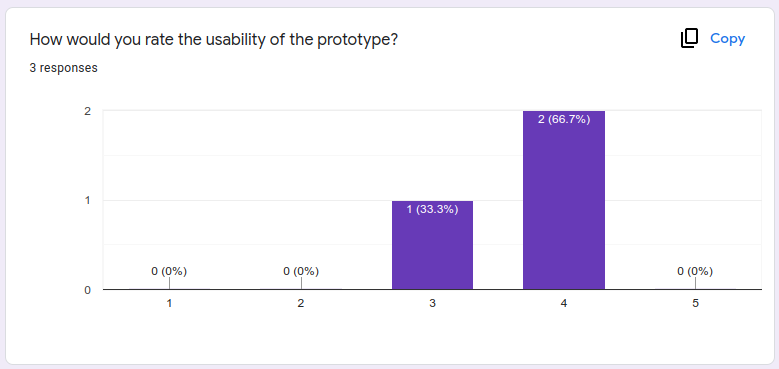
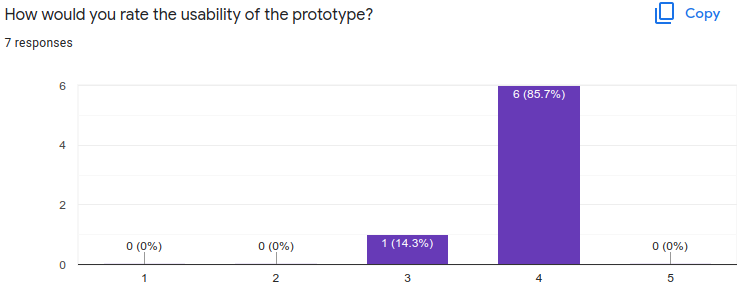
Proof read chapter 6

diff --git a/documentation/thesis/chapters/evaluation/results.tex b/documentation/thesis/chapters/evaluation/results.tex
@@ -1,3 +1,4 @@
+\newpage
 \section{Evaluation Results}
 
 \subsection{Qualitative Result Analysis}
@@ -16,7 +17,7 @@ The following table shows the overall impression of the interviewees after showi
     EV6 & “This was a creative approach that I don’t know I have seen anywhere else. The architecture is well designed and has appropriate divisions. Separating the metrics aggregation from the analysis was a good choice as these components will scale differently.” \\ \hline
     EV7 & "Keep continuing working on the project. This is something really cool and this could help a lot of startups to solve their problems because the key point in this is you solve the service layer of related issues." \\ \hline
     EV8 & “This looks really good, for specifically undergrad project done in a limited time” \\ \hline
-    EV9 &  \\ \hline
+    % EV9 &  \\ \hline
     \caption{Evaluator's overall impression about the system (self-composed)}
 \end{longtable}
 
@@ -24,61 +25,77 @@ The following table shows the overall impression of the interviewees after showi
 
 \subsection{Quantitative Evaluation}
 
-\begin{longtable}{|l|l|l|l|l|l|l|l|l|l|} 
+\begin{longtable}{|l|l|l|l|l|l|l|l|} 
   \hline
-  \begin{tabular}[c]{@{}l@{}}\\\textbf{Criteria}\end{tabular} & \textbf{EV1} & \textbf{EV2} & \textbf{EV3} & \textbf{EV4} & \textbf{EV5} & \textbf{EV6} & \textbf{EV7} & \textbf{EV8} & \textbf{EV9} \\* 
+  \begin{tabular}[c]{@{}l@{}}\\\textbf{Criteria}\end{tabular} & \textbf{EV1} & \textbf{EV2} & \textbf{EV3} & \textbf{EV4} & \textbf{EV5} & \textbf{EV6} & \textbf{EV7} \\* 
   \hline
-  \multirow{4}{*}{\begin{tabular}[c]{@{}l@{}}The overall \\impression about \\the project and \\research gap\end{tabular}} & \multicolumn{9}{l|}{\begin{tabular}[c]{@{}l@{}}Proposed solution provide a good answer to the identified problem? \\(1 - Strongly Disagree, 5 - Strongly Agree)\end{tabular}} \\* 
-  \cline{2-10}
-   & 4 & 5 & 5 & 5 & 4 & 5 &  & 5 &  \\* 
-  \cline{2-10}
-   & \multicolumn{9}{l|}{The novelty of the project (1 - No novelty, 5 -Very high)} \\* 
-  \cline{2-10}
-   & 5 & 4 & 4 & 5 & 5 & 5 &  & 5 &  \\* 
+
+
+  \multirow{4}{*}{\begin{tabular}[c]{@{}l@{}}The overall \\impression about \\the project and \\research gap\end{tabular}} & \multicolumn{7}{l|}{\begin{tabular}[c]{@{}l@{}} \textbf{Does the proposed solution provide an excellent answer to the problem?}\\(1 - Strongly Disagree, 5 - Strongly Agree)\end{tabular}} \\* 
+  \cline{2-8}
+   & 4 & 5 & 5 & 5 & 4 & 5 & 5 \\* 
+  \cline{2-8}
+   & \multicolumn{7}{l|}{\textbf{The novelty of the project} (1 - No novelty, 5 -Very high)} \\* 
+  \cline{2-8}
+   & 5 & 4 & 4 & 5 & 5 & 5 & 5 \\* 
   \hline
-  \multirow{4}{*}{\begin{tabular}[c]{@{}l@{}}Research scope \\and depth\end{tabular}} & \multicolumn{9}{l|}{\begin{tabular}[c]{@{}l@{}}Rate the complexity of the project \\(1 - Not up to an undergraduate level, 5 - Could satisfy for a masters level)\end{tabular}} \\* 
-  \cline{2-10}
-   & 4 & 3 & 5 & 5 & 5 & 5 &  & 5 &  \\* 
-  \cline{2-10}
-   & \multicolumn{9}{l|}{\begin{tabular}[c]{@{}l@{}}Rate the scope of the project \\(1 - Easy to achieve, 5 - Requires lot of hard work)\end{tabular}} \\* 
-  \cline{2-10}
-   & 5 & 4 & 5 & 5 & 5 & 5 &  & 5 &  \\* 
+
+
+  \multirow{4}{*}{\begin{tabular}[c]{@{}l@{}}Research scope \\and depth\end{tabular}} & \multicolumn{7}{l|}{\begin{tabular}[c]{@{}l@{}}\textbf{Rate the complexity of the project}\\(1 - Not up to an undergraduate level, 5 - Could satisfy for a masters level)\end{tabular}} \\* 
+  \cline{2-8}
+   & 4 & 3 & 5 & 5 & 5 & 5 & 5 \\* 
+  \cline{2-8}
+   & \multicolumn{7}{l|}{\begin{tabular}[c]{@{}l@{}}\textbf{Rate the scope of the project}\\(1 - Easy to achieve, 5 - Requires a lot of hard work)\end{tabular}} \\* 
+  \cline{2-8}
+   & 5 & 4 & 5 & 5 & 5 & 5 & 5 \\* 
   \hline
-  \multirow{4}{*}{\begin{tabular}[c]{@{}l@{}}Design and \\architecture\end{tabular}} & \multicolumn{9}{l|}{\begin{tabular}[c]{@{}l@{}}The author showed a deep understanding about the subject matter \\(1 - Strongly Disagree, 5 - Strongly Agree)\end{tabular}} \\* 
-  \cline{2-10}
-   & 5 & 5 & 5 & 5 & 5 & 5 &  & 5 &  \\* 
-  \cline{2-10}
-   & \multicolumn{9}{l|}{\begin{tabular}[c]{@{}l@{}}The solution was well architectured to fit into microservices ecosystems \\(1 - Strongly Disagree, 5 - Strongly Agree)\end{tabular}} \\* 
-  \cline{2-10}
-   & 5 & 5 & 5 & 5 & 4 & 4 &  & 5 &  \\* 
+
+
+  \multirow{4}{*}{\begin{tabular}[c]{@{}l@{}}Design and \\architecture\end{tabular}} & \multicolumn{7}{l|}{\begin{tabular}[c]{@{}l@{}}\textbf{The author showed a deep understanding of the subject matter}\\(1 - Strongly Disagree, 5 - Strongly Agree)\end{tabular}} \\* 
+  \cline{2-8}
+   & 5 & 5 & 5 & 5 & 5 & 5 & 5 \\* 
+  \cline{2-8}
+   & \multicolumn{7}{l|}{\begin{tabular}[c]{@{}l@{}}\textbf{The solution was well architectured to fit into microservices ecosystems}\\(1 - Strongly Disagree, 5 - Strongly Agree)\end{tabular}} \\* 
+  \cline{2-8}
+   & 5 & 5 & 5 & 5 & 4 & 4 & 5 \\* 
   \hline
-  \multirow{4}{*}{\begin{tabular}[c]{@{}l@{}}Prototype \\implementation\end{tabular}} & \multicolumn{9}{l|}{\begin{tabular}[c]{@{}l@{}}The project was well put together by following the best practices of both \\Dev and Ops (1 - Strongly Disagree, 5 - Strongly Agree)\end{tabular}} \\* 
-  \cline{2-10}
-   & 5 & 5 & 5 & 5 & 4 & 5 &  & 5 &  \\* 
-  \cline{2-10}
-   & \multicolumn{9}{l|}{\begin{tabular}[c]{@{}l@{}}Project was based on a cutting edge tech stack \\(1 - Strongly Disagree, 5 - Strongly Agree)\end{tabular}} \\* 
-  \cline{2-10}
-   & 5 & 5 & 5 & 5 & 5 & 5 &  & 5 &  \\* 
+
+
+  \multirow{4}{*}{\begin{tabular}[c]{@{}l@{}}Prototype \\implementation\end{tabular}} & \multicolumn{7}{l|}{\begin{tabular}[c]{@{}l@{}}\textbf{The project was well put together by following the best practices of both} \\ \textbf{Dev and Ops} (1 - Strongly Disagree, 5 - Strongly Agree)\end{tabular}} \\* 
+  \cline{2-8}
+   & 5 & 5 & 5 & 5 & 4 & 5 & 5 \\* 
+  \cline{2-8}
+   & \multicolumn{7}{l|}{\begin{tabular}[c]{@{}l@{}}\textbf{The project was based on a cutting edge tech stack}\\(1 - Strongly Disagree, 5 - Strongly Agree)\end{tabular}} \\* 
+  \cline{2-8}
+   & 5 & 5 & 5 & 5 & 5 & 5 & 5 \\* 
   \hline
-  \multirow{2}{*}{\begin{tabular}[c]{@{}l@{}}Contribution \\to the Domain\end{tabular}} & \multicolumn{9}{l|}{\begin{tabular}[c]{@{}l@{}}Impact of this project for the future of AiOps \\(1 - No Impact at all, 5 - Very High)\end{tabular}} \\* 
-  \cline{2-10}
-   & 5 & 4 & 5 & 5 & 4 & 5 &  & 5 &  \\* 
+
+
+  \multirow{4}{*}{Platform usability} & \multicolumn{7}{l|}{\textbf{How would you rate the usability of the prototype?} (1 - Poor, 5 - Excellent)} \\* 
+  \cline{2-8}
+   & 4 & 3 & 4 & 4 & 4 & 4 & 4 \\* 
+  \cline{2-8}
+   & \multicolumn{7}{l|}{\begin{tabular}[c]{@{}l@{}}\textbf{How would you rate the adaptability of the prototype?} \\(1 - Poor, 5 - Excellent)\end{tabular}} \\* 
+  \cline{2-8}
+   & 4 & 3 & 5 & 4 & 4 & 5 & 4 \\* 
   \hline
-  \multirow{4}{*}{Platform usability} & \multicolumn{9}{l|}{\begin{tabular}[c]{@{}l@{}}How would you rate the usability of the prototype? \\(1 - Poor, 5 - Excellent)\end{tabular}} \\* 
-  \cline{2-10}
-   & 4 & 3 & 4 & 4 & 4 & 4 &  & 4 &  \\* 
-  \cline{2-10}
-   & \multicolumn{9}{l|}{\begin{tabular}[c]{@{}l@{}}How would you rate the adaptability of the prototype? \\(1 - Poor, 5 - Excellent)\end{tabular}} \\* 
-  \cline{2-10}
-   & 4 & 3 & 5 & 4 & 4 & 5 &  & 4 &  \\* 
+
+
+  \multirow{2}{*}{\begin{tabular}[c]{@{}l@{}}Contribution \\to the Domain\end{tabular}} & \multicolumn{7}{l|}{\begin{tabular}[c]{@{}l@{}}\textbf{Impact of this project on the future of AIOps} \\(1 - No Impact at all, 5 - Very High)\end{tabular}} \\* 
+  \cline{2-8}
+   & 5 & 4 & 5 & 5 & 4 & 5 & 5 \\* 
   \hline
-  \multirow{4}{*}{Future work} & \multicolumn{9}{l|}{\begin{tabular}[c]{@{}l@{}}Would you consider deploying this project into your own cluster? \\(Yes/Maybe/No)\end{tabular}} \\* 
-  \cline{2-10}
-   & Maybe & Yes & Yes & Maybe & Yes & Yes &  & Maybe &  \\* 
-  \cline{2-10}
-   & \multicolumn{9}{l|}{\begin{tabular}[c]{@{}l@{}}Would be interested in building upon this project if it's open sourced? \\(Yes/Maybe/No)\end{tabular}} \\* 
-  \cline{2-10}
-   & Yes & Maybe & Yes & Maybe & Yes & Maybe &  & Yes &  \\
+
+
+  \multirow{4}{*}{Future work} & \multicolumn{7}{l|}{\begin{tabular}[c]{@{}l@{}}\textbf{Would you consider deploying this project into your own cluster?} \\(Yes/Maybe/No)\end{tabular}} \\* 
+  \cline{2-8}
+   & Maybe & Yes & Yes & Maybe & Yes & Yes & Maybe \\* 
+  \cline{2-8}
+   & \multicolumn{7}{l|}{\begin{tabular}[c]{@{}l@{}}\textbf{Would you be interested in building upon this project?}\\(Yes/Maybe/No)\end{tabular}} \\* 
+  \cline{2-8}
+   & Yes & Maybe & Yes & Maybe & Yes & Maybe & Yes \\
   \hline
+
+  \caption{Summary of the project evaluation (self-composed)}
   \end{longtable}
   

diff --git a/documentation/thesis/chapters/system-design/system-design.tex b/documentation/thesis/chapters/system-design/system-design.tex
@@ -2,11 +2,11 @@
 
 \subsection{Design Paradigm}
 
-When building a software application there are two main design paradigms to choose from to organize the code base. Object-Oriented Analysis and Design (OOAD) which is very popular among programming languages such as Java and C\# is a way of mimicking the behavior of real-world objects and how they interact in the real-world. However, this project has a lot of components that are loosely coupled and implemented in many different languages and frameworks. So Structured Systems Analysis and Design (SSADM) was chosen as the design paradigm for this project.
+When building a software application, there are two main design paradigms to choose from to organize the codebase. Object-Oriented Analysis and Design (OOAD) which is very popular among programming languages such as Java and C\# is a way of mimicking the behavior of real-world objects and how they interact in the real world. However, this project has a lot of components that are loosely coupled and implemented in many various languages and frameworks. Therefore, Structured Systems Analysis and Design (SSADM) was chosen as the design paradigm for this project.
 
 \subsection{Data-flow diagram}
 
-The Data-flow diagram explains the flow of request data within the system and how each process in the system interacts with each other at a high level.
+The Data-flow diagram explains the flow of request data within the system and how each process in the system interacts with each other at a higher level.
 
 \begin{figure}[H]
     \includegraphics[width=12cm]{assets/system-design/data-flow-level-1.png}
@@ -23,7 +23,7 @@ The Data-flow diagram explains the flow of request data within the system and ho
 
 \subsection{Sequence Diagram}
 
-Sequences diagrams are meant to showcase the flow of instructions within sub-components of the system. Digrams below explains how the system reacts when two of the main core functionality are invoked.
+Sequences diagrams are meant to showcase the flow of instructions within sub-components of the system. The following diagram explains how the system reacts when two of the main core functionality are invoked.
 
 \begin{figure}[H]
     \centering
@@ -44,7 +44,7 @@ Sequences diagrams are meant to showcase the flow of instructions within sub-com
 
 \subsection{System Process Flow Chart}
 
-The process flow chart describes how the data flow within the system along with decisions that are made to control the flow. Following digram show how the system handles the process of adding a new service to the monitored service list.
+The process flow chart describes how the data flow within the system along with decisions that are made to control the flow. The following diagram shows how the system handles the process of adding a new service to the monitored service list.
 
 \begin{figure}[H]
     \includegraphics[width=16cm]{assets/system-design/process-flow-chart.png}
@@ -54,7 +54,7 @@ The process flow chart describes how the data flow within the system along with 
 
 \subsection{UI Design}
 
-Since this project was developed as a Kubernetes native application most of the functionality work as a daemon process in the background. However, there are two use cases where having a visual user interface greatly increases the usability of this project. UI mockups attached below showcase two of those use-cases. Figure \ref{fig:ui-home} displays how developers will be able to inspect the topology of the system and find issues in a realtime while, Figure \ref{fig:ui-settings} showcase the settings page which is used to tag interested services in the system which needs to be monitored. High fidelity version of these digrams can be found in Appendix \ref{appendix:ui}
+Since this project was developed as a Kubernetes native application, most of the functionality works as a daemon process in the background. However, there are two use cases where having a visual user interface greatly increases the usability of this project. UI mockups attached below showcase two of those use cases. Figure \ref{fig:ui-home} depicts how developers will be able to inspect the topology of the system and find issues in real time, while Figure \ref{fig:ui-settings} showcases the settings page which is used to tag interested services in the system which needs to be monitored. The high-fidelity version of these digrams can be found in Appendix \ref{appendix:ui}
 
 \begin{figure}[H]
     \centering

diff --git a/documentation/thesis/chapters/system-design/system-architecture.tex b/documentation/thesis/chapters/system-design/system-architecture.tex
@@ -1,6 +1,6 @@
 \section{System Architecture}
 
-System architecture design gives a birds-eye view of how all the components in the system communicate with each other. This helps us to understand the dependencies and responsibilities of each component. Since this system is designed to run on a microservices-based environment, an n-tier design architecture was used to physically separate the components in the system to have better a reliability and scalability.
+System architecture design gives a bird's-eye view of how all the components in the system communicate with each other. This helps us to understand the dependencies and responsibilities of each component. Since this system is designed to run on a microservices-based environment, an n-tier design architecture was used to physically seperate the components in the system to have better a reliability and scalability.
 
 \begin{figure}[H]
     \includegraphics[width=10cm]{assets/system-design/tier-architecture.png}
@@ -13,7 +13,7 @@ System architecture design gives a birds-eye view of how all the components in t
 The presentation tier will be entirely running in the client's computer while depending on the logic tier for data.
 
 \begin{itemize}[noitemsep,nolistsep] 
-    \item \textbf{Monitoring Dashboard} - This view is responsible for helping the user to understand the service topology and visually identify issues in the system.
+    \item \textbf{Monitoring Dashboard} - This view is responsible for helping the user understand the service topology and visually identify issues in the system.
     \item \textbf{Settings View} - On the settings page users can choose which services are needed to be monitored along with their DNS address.
 \end{itemize}
 
@@ -24,16 +24,16 @@ The logic tier will contain three custom microservices that depend on Kubernetes
 \begin{itemize}[noitemsep,nolistsep] 
     \item \textbf{\ac{lazy-koala-operator}} - The \ac{lazy-koala-operator} is the main bridge between Kubernetes APIs and this system. It also contains a proxy server that redirects incoming client requests to kube-api.
     \item \textbf{\ac{gazer}} - An instance of \ac{gazer} will be running on every node in the Kubernetes cluster which passively extracts telemetry and sends them over to the Prometheus server.
-    \item \textbf{\ac{sherlock}} - AI engine periodically query Prometheus to get the current status of all the monitored service. Then it calculates an anomaly score for each service and pushes it to Prometheus so it can be sent back to the presentation layer
+    \item \textbf{\ac{sherlock}} - The AI engine periodically queries Prometheus to get the current status of all the monitored services. Then it calculates an anomaly score for each service and pushes it to Prometheus so it can be sent back to the presentation layer
     \item \textbf{kube-apiserver} - This is an API provided by Kubernetes that help to read and update the cluster status programmatically.
     \item \textbf{kube-scheduler} - kube-scheduler is responsible for smartly provision requested resources in available spaces.
-    \item \textbf{kube-controller-manager} - This service send updates to all the operators running on the cluster whenever there is a change to a resource that was owned by the specific operator.
+    \item \textbf{kube-controller-manager} - This service sends updates to all operators running in the cluster whenever there is a change to a resource that was owned by the specific operator.
 \end{itemize}
 
 \subsection{Data Tier}
 
 \begin{itemize}[noitemsep,nolistsep] 
     \item \textbf{Blob Storage} - Storage for the pre-trained models and built containers.
-    \item \textbf{Prometheus} - A time-series database that is highly optimized for telemetry collection.
+    \item \textbf{Prometheus} - A time series database that is highly optimised for telemetry collection.
     \item \textbf{etcd} - etcd is an in-memory database that will be responsible for holding the resources specifications and \ac{gazer} config.
 \end{itemize}

diff --git a/documentation/thesis/chapters/system-design/design-goals.tex b/documentation/thesis/chapters/system-design/design-goals.tex
@@ -4,13 +4,13 @@
 \textbf{Design Goal} &
     \textbf{Description} \\ \hline
     Modularity &
-    Since this is designed to work in a cloud-native environment, it’s considered best practice to have all the components loosely coupled. During the requirement engineering phase two of the industry experts expressed their interests to integrate this project into some of their existing toolings. So having moduler design will help their efforts too. \\ \hline
+    Since this is designed to work in a cloud-native environment, it is considered best practise to have all components loosely coupled. During the requirement engineering phase two of the industry experts expressed their interest to integrate this project into some of their existing toolings. So having modular design will help their efforts too. \\ \hline
     
     Lightweight &
-    As this was designed to be a supporting system to existing distributed systems, it needs to be as lightweight as possible to justify the use of this. If the supporting system is consuming more resources than the target system it won’t be practical to use. \\ \hline
+    As this was designed to be a supporting system to existing distributed systems, it needs to be as lightweight as possible to justify its use of this. If the supporting system consumes more resources than the target system, it will not be practical to use. \\ \hline
     
     No Code Change &
-    It’s unlikely for developers to update all the services in a distributed system to match with a monitoring system. So to increase adaptability, this system should be able to work without any instrumentation from the developers’ side. \\ \hline
+    It’s unlikely for developers to update all the services in a distributed system to match with a monitoring system. Therefore, to increase adaptability, this system should be able to work without any instrumentation from the developers' side. \\ \hline
     
     Extensibility &
     One of the core goals of this project is to be a starting place for future researchers who are looking into root cause analysis. So having this toolkit extensible will greatly help their efforts. \\ \hline

diff --git a/documentation/thesis/chapters/evaluation/evaluators.tex b/documentation/thesis/chapters/evaluation/evaluators.tex
@@ -13,9 +13,9 @@ the author has decided to select a group of experts who have experience in both 
   EV4 & Lakmal Warusawithana & Senior Director - Cloud Architecture & WSo2 & Experienced cloud engineer and have worked with \ac{ebpf} \\ \hline
   EV5 & Shamal Perera & Senior Technical Lead & 99x & Experienced with cloud engineer and a lecturer \\ \hline
   EV6 & Jacob Payne & Senior Software Engineer & SUSE & Experienced Kubernetes developer and the author’s Google Summer of Code mentor \\ \hline
-  EV7 & Sameer Hamza &  &  & Experienced with cloud engineer and a lecturer \\ \hline
-  EV8 & Nilesh Jayanandana & Solutions Architect & WSo2 & Experienced cloud engineer who currently the Community Lead of Kubernetes Sri Lanka \\ \hline
-  EV9 & Dr Surangika Ranathunga & Senior Lecturer & University of Moratuwa & Experienced machine learning expert and a lecturer \\ \hline
+  EV7 & Nilesh Jayanandana & Solutions Architect & WSo2 & Experienced cloud engineer who currently the Community Lead of Kubernetes Sri Lanka \\ \hline
+  EV8 & \textit{Retracted} & N/A & N/A & Experienced with cloud engineer and a lecturer \\ \hline
+  % EV9 & Dr Surangika Ranathunga & Senior Lecturer & University of Moratuwa & Experienced machine learning expert and a lecturer \\ \hline
 
   \caption{Selection of evaluators (self-composed)}
 \end{longtable}

diff --git a/documentation/thesis/cover-page.tex b/documentation/thesis/cover-page.tex
@@ -10,7 +10,7 @@
   % Upper part of the page
 \text{\large Informatics Institute of Technology}\\[0.1cm]
 \text{\large In Collaboration With}\\[0.1cm]
-\text{\large University of Westminster, UK}\\[0.4cm]
+\text{\large University of Westminster, UK}\\[0.6cm]
 
 
 % Logo
@@ -19,7 +19,7 @@
 % \setstretch{2.5}
 % Title
 {\fontfamily{qtm}\selectfont\setstretch{2}
-{ \Huge Lazy-Koala: A Lightweight Framework for Root Cause Analysis in Distributed Systems }\\[2cm]
+{ \Huge Lazy-Koala: A Lightweight Framework for Root Cause Analysis in Distributed Systems }\\[1.7cm]
 }
 % \begin{minipage}{0.45\textwidth}
 % \text{\LARGE  Project Specifications Design and Prototype}\\[1.5cm]
@@ -31,8 +31,9 @@
 
 % % Supervisor
 \text{\large Supervised by}\\[0.1cm]
-\text{\large \textbf{Mr. Guhanathan Poravi}}\\[2.2cm]
+\text{\large \textbf{Mr. Guhanathan Poravi}}\\[1cm]
 
+\text{\large May 2022}\\[1.1cm]
 % Supervisor
 % \text{\large \textbf{Supervisor}: Guhanathan Poravi}\\[0.1cm]
 % \text{\large \textbf{Date}: $5^{th} $ May 2022}\\[0.1cm]

diff --git a/documentation/thesis/chapters/system-design/chapter-overview.tex b/documentation/thesis/chapters/system-design/chapter-overview.tex
@@ -1,3 +1,3 @@
 \section{Chapter Overview}
 
-This chapter focuses on the overall design of the proposed system. First, the author will discuss the design goals when it comes to creating this system and the philosophies behind it. Then the system architecture will be explained and how each layer on the system integrates with each other. Finally, the chapter will conclude with the design of the proposed system along with the low fidelity UI design which will showcase how the UIs of the system will look. 
+This chapter focuses on the overall design of the proposed system. First, the author will discuss the design goals in creating this system and the philosophies behind it. Then the system architecture will be explained and how each layer of the system integrates with each other. Finally, the chapter will conclude with the design of the proposed system along with the low-fidelity UI design, which will showcase how the UIs of the system will look. 

diff --git a/documentation/thesis/chapters/system-design/chapter-summary.tex b/documentation/thesis/chapters/system-design/chapter-summary.tex
@@ -1,4 +1,4 @@
 \section{Chapter Summary}
 
-After discovering requirements through many methods, this chapter fouces on creating a system around those requirements. The chapter started with design goals the author has set for himself and moved over to explain all the layers of the system in detail with each component. Finally, the chapter was concluded with an explanation about the design paradigm and diagrams associated with it.
+After discovering requirements through many methods, this chapter focusses on creating a system around those requirements. The chapter started with design goals the author has set for himself and moved over to explain all the layers of the system in detail with each component. Finally, the chapter was concluded with an explanation of the design paradigm and diagrams associated with it.
 

diff --git a/documentation/thesis/chapters/evaluation/chapter-summary.tex b/documentation/thesis/chapters/evaluation/chapter-summary.tex
@@ -1,4 +1,4 @@
 \section{Chapter Summary}
 
-The above chapter discussed the final evaluation of the project by getting outside opinions about the system and analyzing those data to see if the original goals were met during the phase of this research. 
+This chapter discussed the final evaluation of the project by getting outside opinions about the system and analyzing those data to see if the original goals were met during the phase of this research. 
 % In order to achieve that evaluation criteria were first defined, then a self-evaluation was done against those criteria. After that, a qualitative and quantitative evaluation was done within those criteria. Finally, both functional and non-functional requirements were evaluated to test whether expectations were met. 

diff --git a/documentation/thesis/chapters/requirement-specification/requirements-specification.tex b/documentation/thesis/chapters/requirement-specification/requirements-specification.tex
@@ -222,7 +222,7 @@ Since this project touched the deep ends of both \ac{sre} and data science expec
     Must have \\ \hline
     
     NFR7 &
-    Reconstruction error of \ac{sherlock} should be under 0.1\% &
+    Reconstruction error of \ac{sherlock} should be under 0.85 &
     Performance &
     Could have \\ \hline
     
